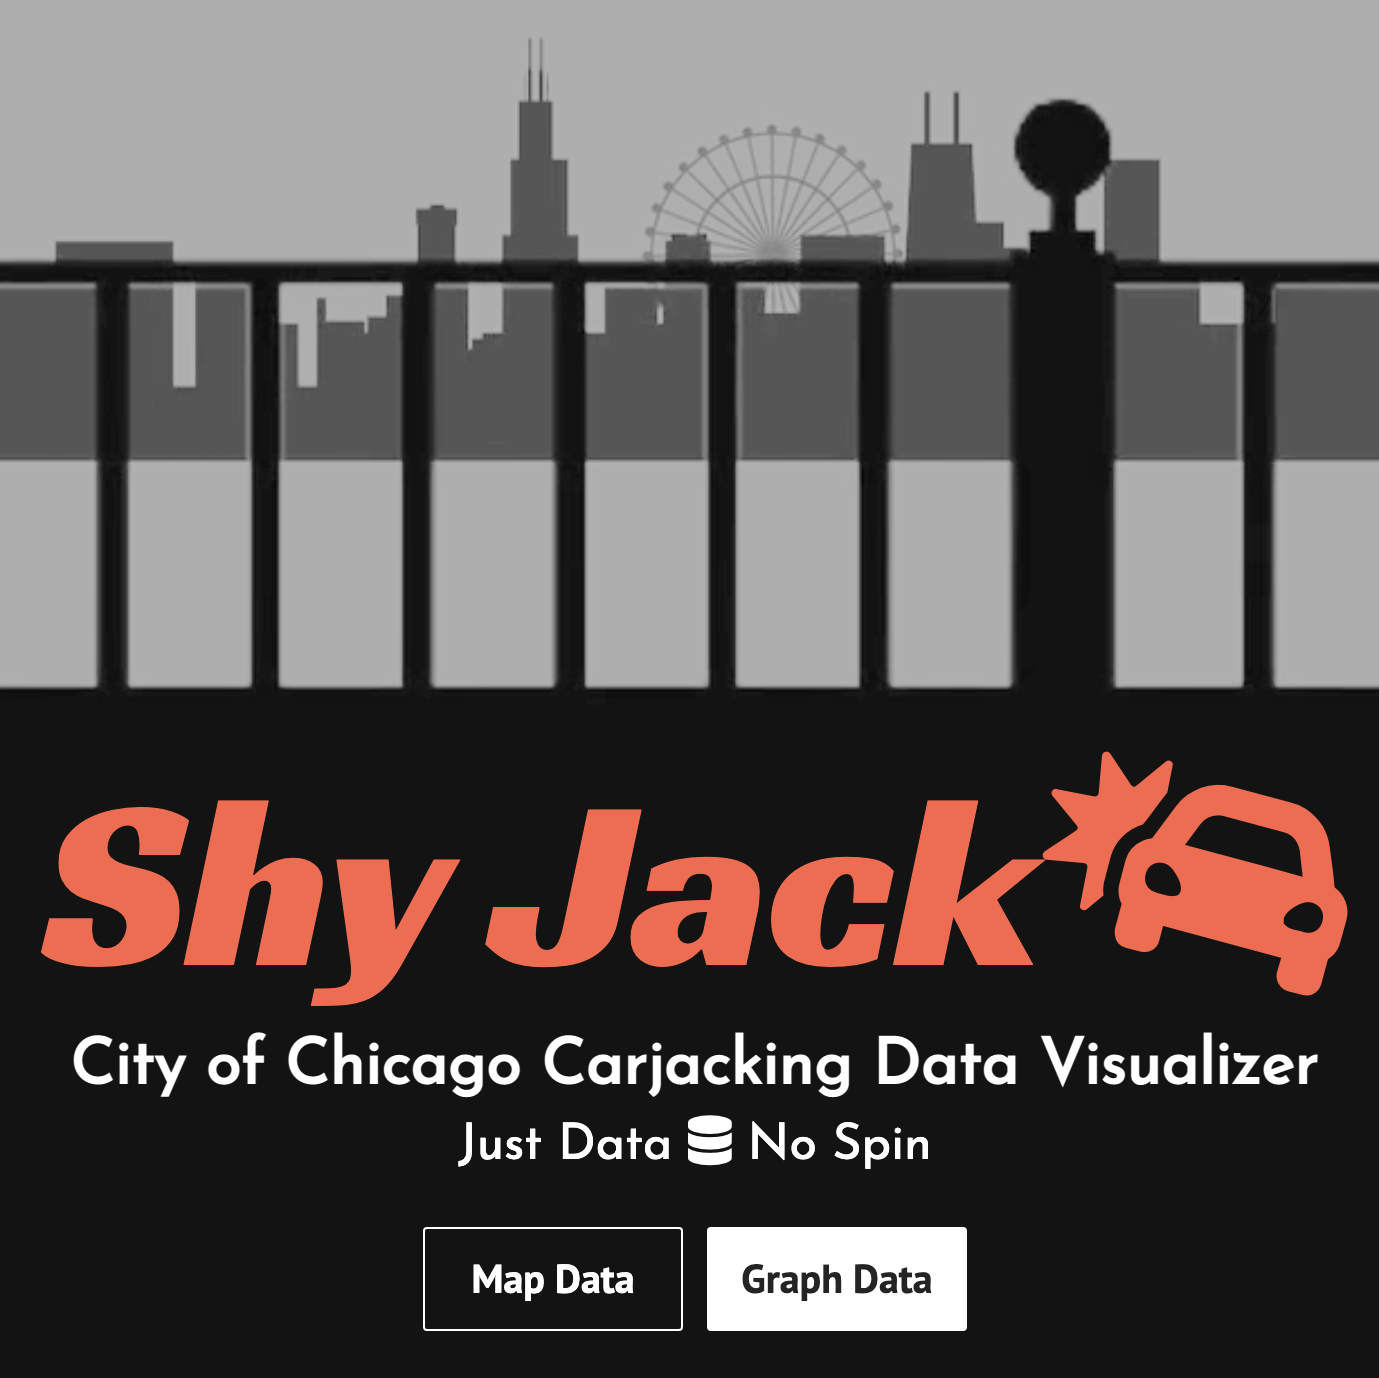
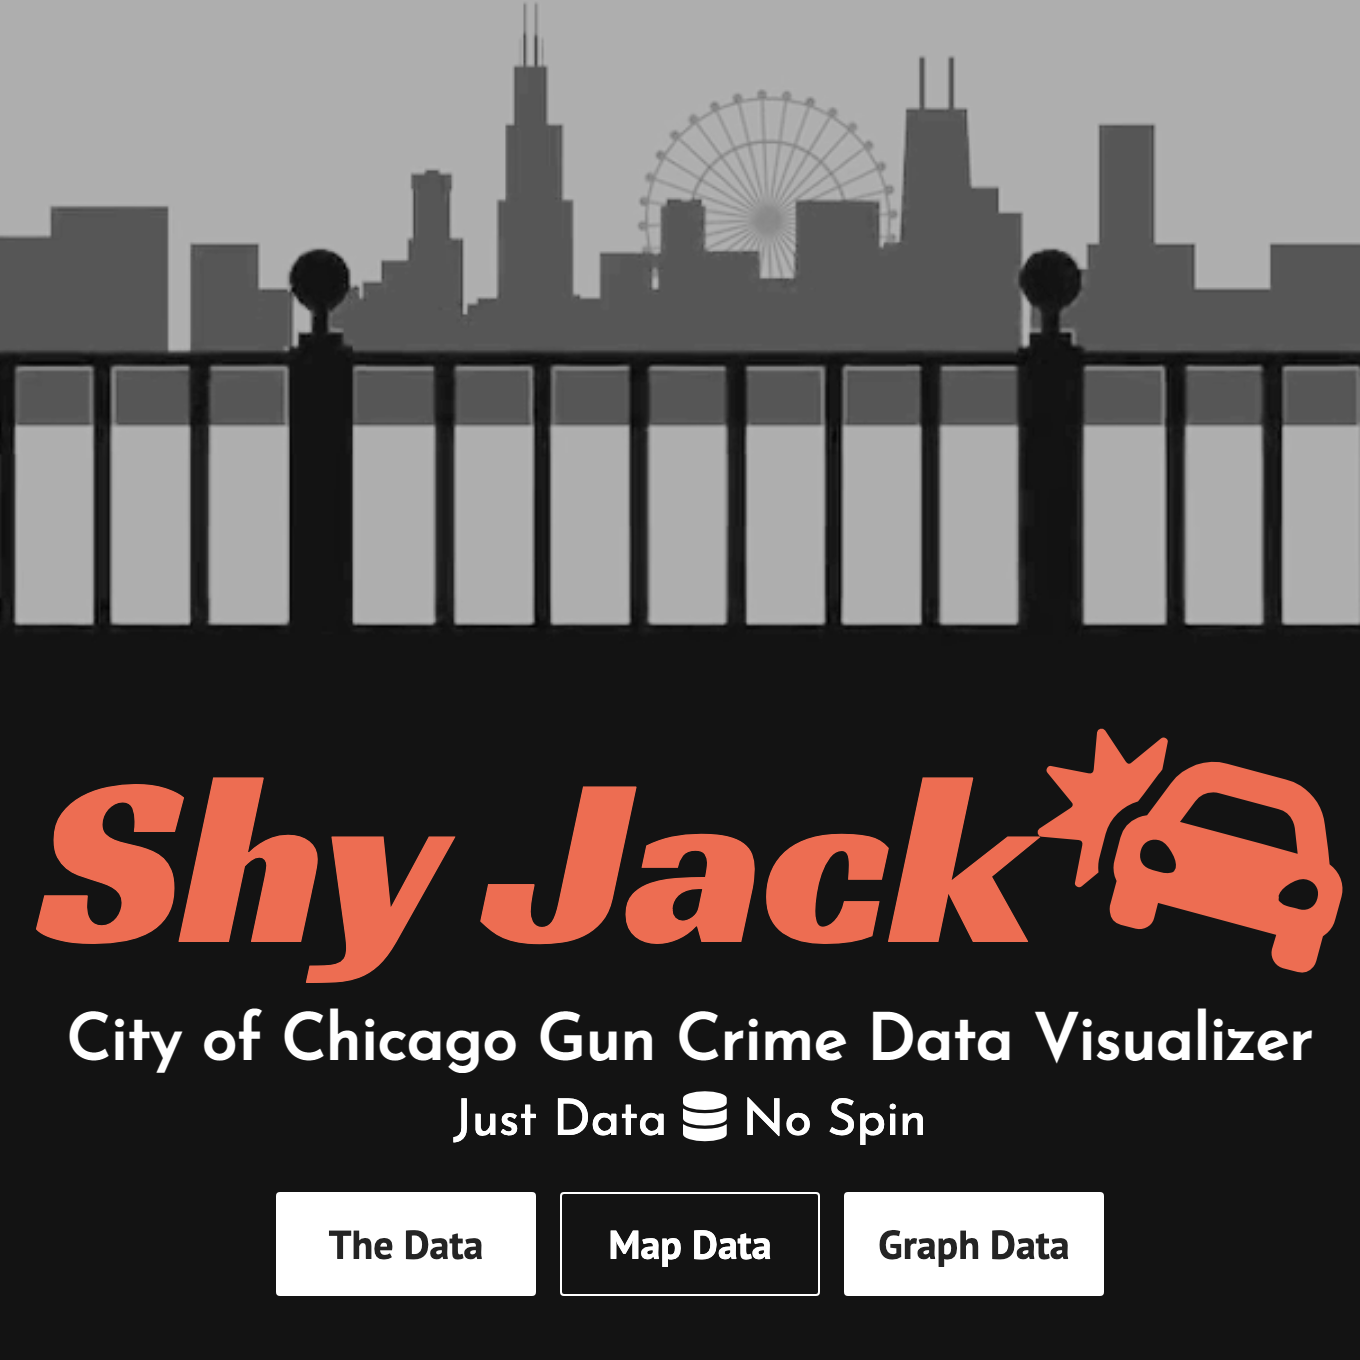
add ab experience to date and updates shy jack pic

Changed region(s): [[0.0, 0.0, 1.0, 0.9882], [0.4324, 0.5559, 0.4632, 0.5868]]

diff --git a/src/data/projects.js b/src/data/projects.js
@@ -6,7 +6,7 @@ export const projects = [
     {
         id: uuidv4(),
         title: "Shy Jack",
-        desc: "Shy Jack is a MERN stack application that allows users to map and graph Chicago carjacking data from 2001 to Present based on their specific search parameters. Stay safe Chicago!",
+        desc: "Shy Jack is a MERN stack application that allows users to map and graph all major crimes and all crimes committed with a firearm in Chicago from 2001 to Present based on their specific search parameters. Stay safe Chicago!",
         github: "https://github.com/JohnnyMohawk/chi-jack-app",
         demo: "https://www.shyjack.com/",
         image: "./images/shy-jack-project.png"
